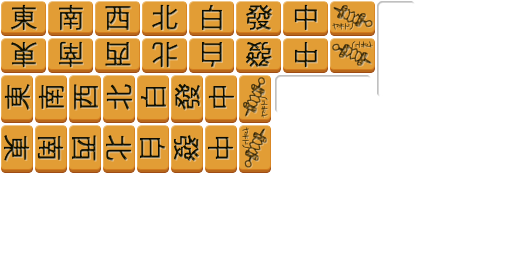
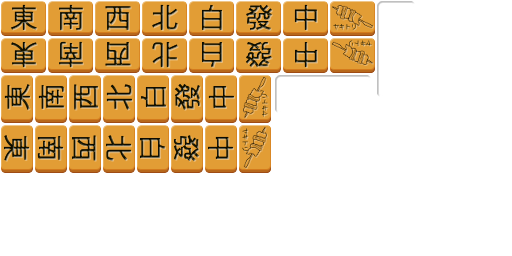
焼き鳥マークのデザインを変更
Openclipartの焼き鳥の画像を加工したものを使用しました。
元画像 https://openclipart.org/detail/210764/yakitori-sticks
元画像はパブリックドメインにあります。

diff --git a/doc/license.md b/doc/license.md
@@ -51,6 +51,15 @@ Copyright (c) 2008-2013, 2019 MihailJP
 　参照：[http://gutenberg.sourceforge.jp/ja/license.html](http://gutenberg.sourceforge.jp/ja/license.html)
 
 
+焼き鳥マークの画像について
+------------------------
+　焼き鳥マークの画像は、Openclipart の [Yakitori Sticks](https://openclipart.org/detail/210764/yakitori-sticks)
+をもとに加工したものです。
+　Openclipart で公開されているクリップアートは、すべてパブリックドメインにあります。
+
+参照：[https://openclipart.org/share](https://openclipart.org/share)
+
+
 時計の文字盤画像について
 ------------------------
 　時計の文字盤に使用した写真は、2011年3月19日にドイツで撮影された満月の写真であり、 
